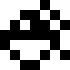
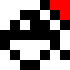
Can control the frame's BG from code, added border to region symbol

Changed region(s): [[0.7143, 0.0, 1.0, 0.2857]]

diff --git a/scripts/utils.py b/scripts/utils.py
@@ -5,6 +5,7 @@ from reportlab.pdfbase.pdfmetrics import stringWidth
 from reportlab.lib.utils import ImageReader
 from reportlab.pdfbase import pdfmetrics
 from reportlab.pdfbase.ttfonts import TTFont
+from reportlab.pdfgen.canvas import Canvas
 from PIL import Image
 
 FONT_ENG = "Font_ENG"
@@ -28,6 +29,9 @@ H_ALIGN_RIGHT = "right"
 DEFAULT_TEXT_SIZE = 12
 
 LOG_INDENT = "  "
+
+FRAME_BG_COLOUR_PLACEHOLDER = (255, 0, 0, 255)
+FRAME_BG_COLOUR = (255, 255, 255, 215)
 
 # -*- coding:utf-8 -*-
 ASIAN_CHAR_RANGES = [
@@ -57,7 +61,7 @@ frame_left_path = ""
 frame_centre_path = ""
 
 
-def init(fonts_dir_path, frame_imgs_dir_path):
+def init(fonts_dir_path: str, frame_imgs_dir_path: str):
     # Register English fonts
     eng_regular_font_path = os.path.join(fonts_dir_path, "Roboto/Roboto-Regular.ttf")
     pdfmetrics.registerFont(TTFont(FONT_ENG, eng_regular_font_path))
@@ -88,7 +92,7 @@ def init(fonts_dir_path, frame_imgs_dir_path):
     
 
 # https://stackoverflow.com/questions/30069846/how-to-find-out-chinese-or-japanese-character-in-a-string-in-python
-def text_contains_asian_chars(text):
+def text_contains_asian_chars(text: str) -> bool:
   if not text:
       return False
   
@@ -100,13 +104,13 @@ def text_contains_asian_chars(text):
   return False
 
 
-def get_text_width(text, font_weight=FONT_WEIGHT_REGULAR, font_size=DEFAULT_TEXT_SIZE):
+def get_text_width(text: str, font_weight: str = FONT_WEIGHT_REGULAR, font_size: float = DEFAULT_TEXT_SIZE) -> float:
     font_name = get_font_name(text, font_weight)
     text_width = stringWidth(text, font_name, font_size)
     return text_width
 
 
-def get_font_name(text, font_weight):
+def get_font_name(text: str, font_weight: str) -> str:
     if text_contains_asian_chars(text):
         if font_weight == FONT_WEIGHT_BOLD:
             return FONT_BOLD_JPN
@@ -123,7 +127,7 @@ def get_font_name(text, font_weight):
             return FONT_ENG
 
 
-def write_text(text, x, y, canvas, font_weight=FONT_WEIGHT_REGULAR, font_size=DEFAULT_TEXT_SIZE, h_align=H_ALIGN_LEFT, v_align=V_ALIGN_BOTTOM):
+def write_text(text: str, x: float, y: float, canvas: Canvas, font_weight: str = FONT_WEIGHT_REGULAR, font_size: float = DEFAULT_TEXT_SIZE, h_align: str = H_ALIGN_LEFT, v_align: str = V_ALIGN_BOTTOM):
     if not text:
         return
     
@@ -145,15 +149,23 @@ def write_text(text, x, y, canvas, font_weight=FONT_WEIGHT_REGULAR, font_size=DE
     canvas.drawString(x, y, text)
 
 
-def draw_image(image_path, x, y, canvas, width=None, height=None, h_align=H_ALIGN_LEFT, v_align=V_ALIGN_BOTTOM, crop_to_cover=False):
+def draw_image(
+        image_path: str, x: float, y: float, canvas: Canvas, width: float = None, height: float = None,
+        h_align: str = H_ALIGN_LEFT, v_align: str = V_ALIGN_BOTTOM, crop_to_cover: bool = False,
+        colour_placeholder = None, colour_new = None, has_border: bool = False):
     image = Image.open(image_path)
     if (crop_to_cover):
         image = crop_image_to_cover(image, width, height)
 
-    image_io = get_image_io(image)
-
     image_w, image_h = image.size
     image_ratio = image_w / image_h
+
+    if colour_placeholder and colour_new:
+        for i in range(0, image_w):
+            for j in range(0, image_h):
+                current_pixel_colour = image.getpixel((i, j))
+                if (current_pixel_colour == colour_placeholder):
+                    image.putpixel((i, j), colour_new)
 
     if width:
         image_w = width
@@ -176,11 +188,17 @@ def draw_image(image_path, x, y, canvas, width=None, height=None, h_align=H_ALIG
     elif v_align == V_ALIGN_TOP:
         y = y - image_h
 
+    image_io = get_image_io(image)
     canvas.drawImage(image_io, x, y, width=image_w, height=image_h, mask='auto')
+
+    if has_border:
+        canvas.setStrokeColorRGB(0, 0, 0)
+        canvas.rect(x, y, image_w, image_h, stroke=1, fill=0)
+
     return image_w, image_h
 
 
-def draw_frame(x, y, canvas, width=400, height=150, border_thickness=10, h_align=H_ALIGN_LEFT, v_align=V_ALIGN_BOTTOM, is_full_size=False):
+def draw_frame(x: float, y: float, canvas: Canvas, width: float = 400, height: float = 150, border_thickness: float= 10, h_align: str = H_ALIGN_LEFT, v_align: str = V_ALIGN_BOTTOM, is_full_size: bool = False):
     if (is_full_size):
         width = width - 2*border_thickness
         height = height - 2*border_thickness
@@ -200,18 +218,22 @@ def draw_frame(x, y, canvas, width=400, height=150, border_thickness=10, h_align
     elif v_align == V_ALIGN_TOP:
         y = y - full_h
 
-    draw_image(frame_top_left_path, x, y+border_thickness+height, canvas, width=border_thickness, height=border_thickness)
-    draw_image(frame_top_path, x+border_thickness, y+border_thickness+height, canvas, width=width, height=border_thickness)
-    draw_image(frame_top_right_path, x+border_thickness+width, y+border_thickness+height, canvas, width=border_thickness, height=border_thickness)
-    draw_image(frame_left_path, x, y+border_thickness, canvas, width=border_thickness, height=height)
-    draw_image(frame_bottom_left_path, x, y, canvas, width=border_thickness, height=border_thickness)
-    draw_image(frame_bottom_path, x+border_thickness, y, canvas, width=width, height=border_thickness)
-    draw_image(frame_bottom_right_path, x+border_thickness+width, y, canvas, width=border_thickness, height=border_thickness)
-    draw_image(frame_right_path, x+border_thickness+width, y+border_thickness, canvas, width=border_thickness, height=height)
-    draw_image(frame_centre_path, x+border_thickness, y+border_thickness, canvas, width=width, height=height)
+    draw_frame_image(frame_top_left_path, x, y+border_thickness+height, canvas, width=border_thickness, height=border_thickness)
+    draw_frame_image(frame_top_path, x+border_thickness, y+border_thickness+height, canvas, width=width, height=border_thickness)
+    draw_frame_image(frame_top_right_path, x+border_thickness+width, y+border_thickness+height, canvas, width=border_thickness, height=border_thickness)
+    draw_frame_image(frame_left_path, x, y+border_thickness, canvas, width=border_thickness, height=height)
+    draw_frame_image(frame_bottom_left_path, x, y, canvas, width=border_thickness, height=border_thickness)
+    draw_frame_image(frame_bottom_path, x+border_thickness, y, canvas, width=width, height=border_thickness)
+    draw_frame_image(frame_bottom_right_path, x+border_thickness+width, y, canvas, width=border_thickness, height=border_thickness)
+    draw_frame_image(frame_right_path, x+border_thickness+width, y+border_thickness, canvas, width=border_thickness, height=height)
+    draw_frame_image(frame_centre_path, x+border_thickness, y+border_thickness, canvas, width=width, height=height)
 
 
-def get_image_io(image):
+def draw_frame_image(image_path, x, y, canvas, width, height):
+    draw_image(image_path, x, y, canvas, width=width, height=height, colour_placeholder=FRAME_BG_COLOUR_PLACEHOLDER, colour_new=FRAME_BG_COLOUR)
+
+
+def get_image_io(image: Image) -> ImageReader:
     image_data = io.BytesIO()
     image.save(image_data, format='png')
     image_data.seek(0)
@@ -219,7 +241,7 @@ def get_image_io(image):
     return image_io
 
 
-def crop_image_to_cover(image, width, height):
+def crop_image_to_cover(image: Image, width: float, height: float) -> Image:
     # Determine the aspect ratios of the image and the page
     image_width, image_height = image.size
 
@@ -244,14 +266,14 @@ def crop_image_to_cover(image, width, height):
     return cropped_image
 
 
-def parse_json(file_path):
+def parse_json(file_path: str) -> dict:
     with open(file_path, encoding='utf-8') as f:
         txt = f.read()
         parsed = json.loads(txt)
     return parsed
 
 
-def log(text, indent_level=0):
+def log(text: str, indent_level: int = 0):
     log_text = ""
     for x in range(0, indent_level):
         log_text += LOG_INDENT

diff --git a/scripts/generators/card_generator.py b/scripts/generators/card_generator.py
@@ -194,7 +194,7 @@ class CardGenerator():
                 # Draw the region symbol, if specified
                 if region_filename:
                     region_path = os.path.join(self.config.imgs_dir_path, region_filename)
-                    u.draw_image(region_path, padded_frame_right_x, padded_frame_top_y, c, width=SYMBOL_WIDTH, h_align=u.H_ALIGN_RIGHT, v_align=u.V_ALIGN_TOP)
+                    u.draw_image(region_path, padded_frame_right_x, padded_frame_top_y, c, width=SYMBOL_WIDTH, h_align=u.H_ALIGN_RIGHT, v_align=u.V_ALIGN_TOP, has_border=True)
 
                 if (card_in_page == 9):
                     # Render the page

diff --git a/scripts/generators/page_generator.py b/scripts/generators/page_generator.py
@@ -180,7 +180,7 @@ class PageGenerator():
                 # Draw the region symbol, if specified
                 if region_filename:
                     region_path = os.path.join(self.config.imgs_dir_path, region_filename)
-                    u.draw_image(region_path, padded_frame_right_x, padded_frame_top_y, c, width=region_symbol_width, h_align=u.H_ALIGN_RIGHT, v_align=u.V_ALIGN_TOP)
+                    u.draw_image(region_path, padded_frame_right_x, padded_frame_top_y, c, width=region_symbol_width, h_align=u.H_ALIGN_RIGHT, v_align=u.V_ALIGN_TOP, has_border=True)
 
                 # Render the page
                 c.showPage()
